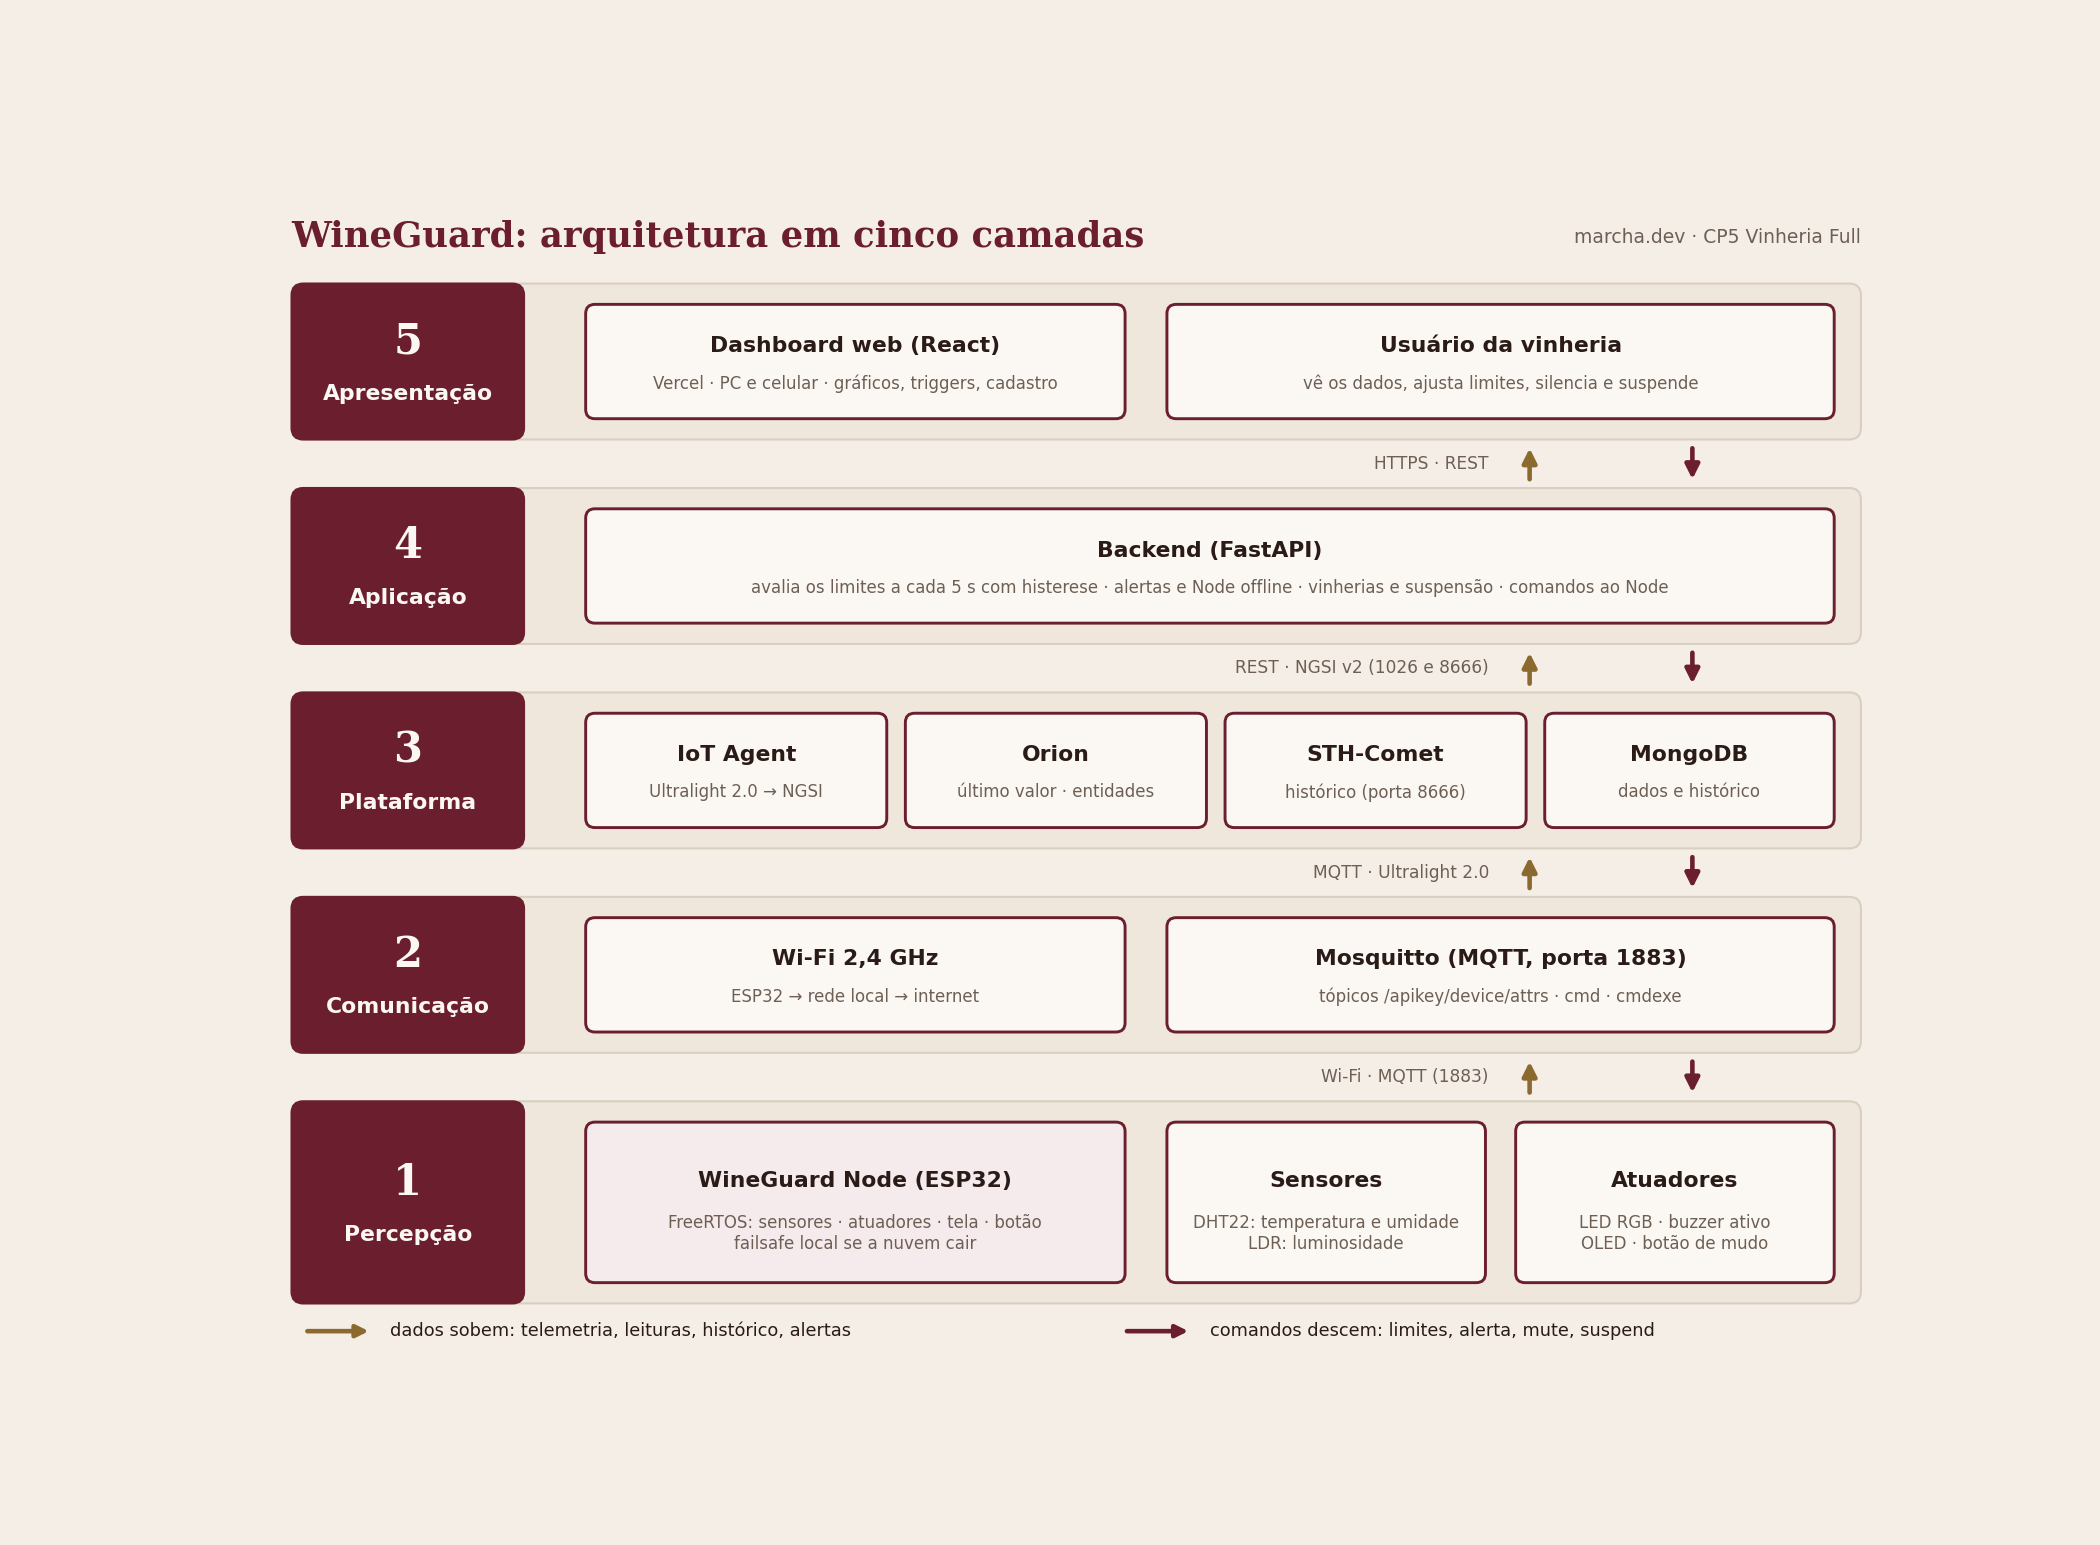
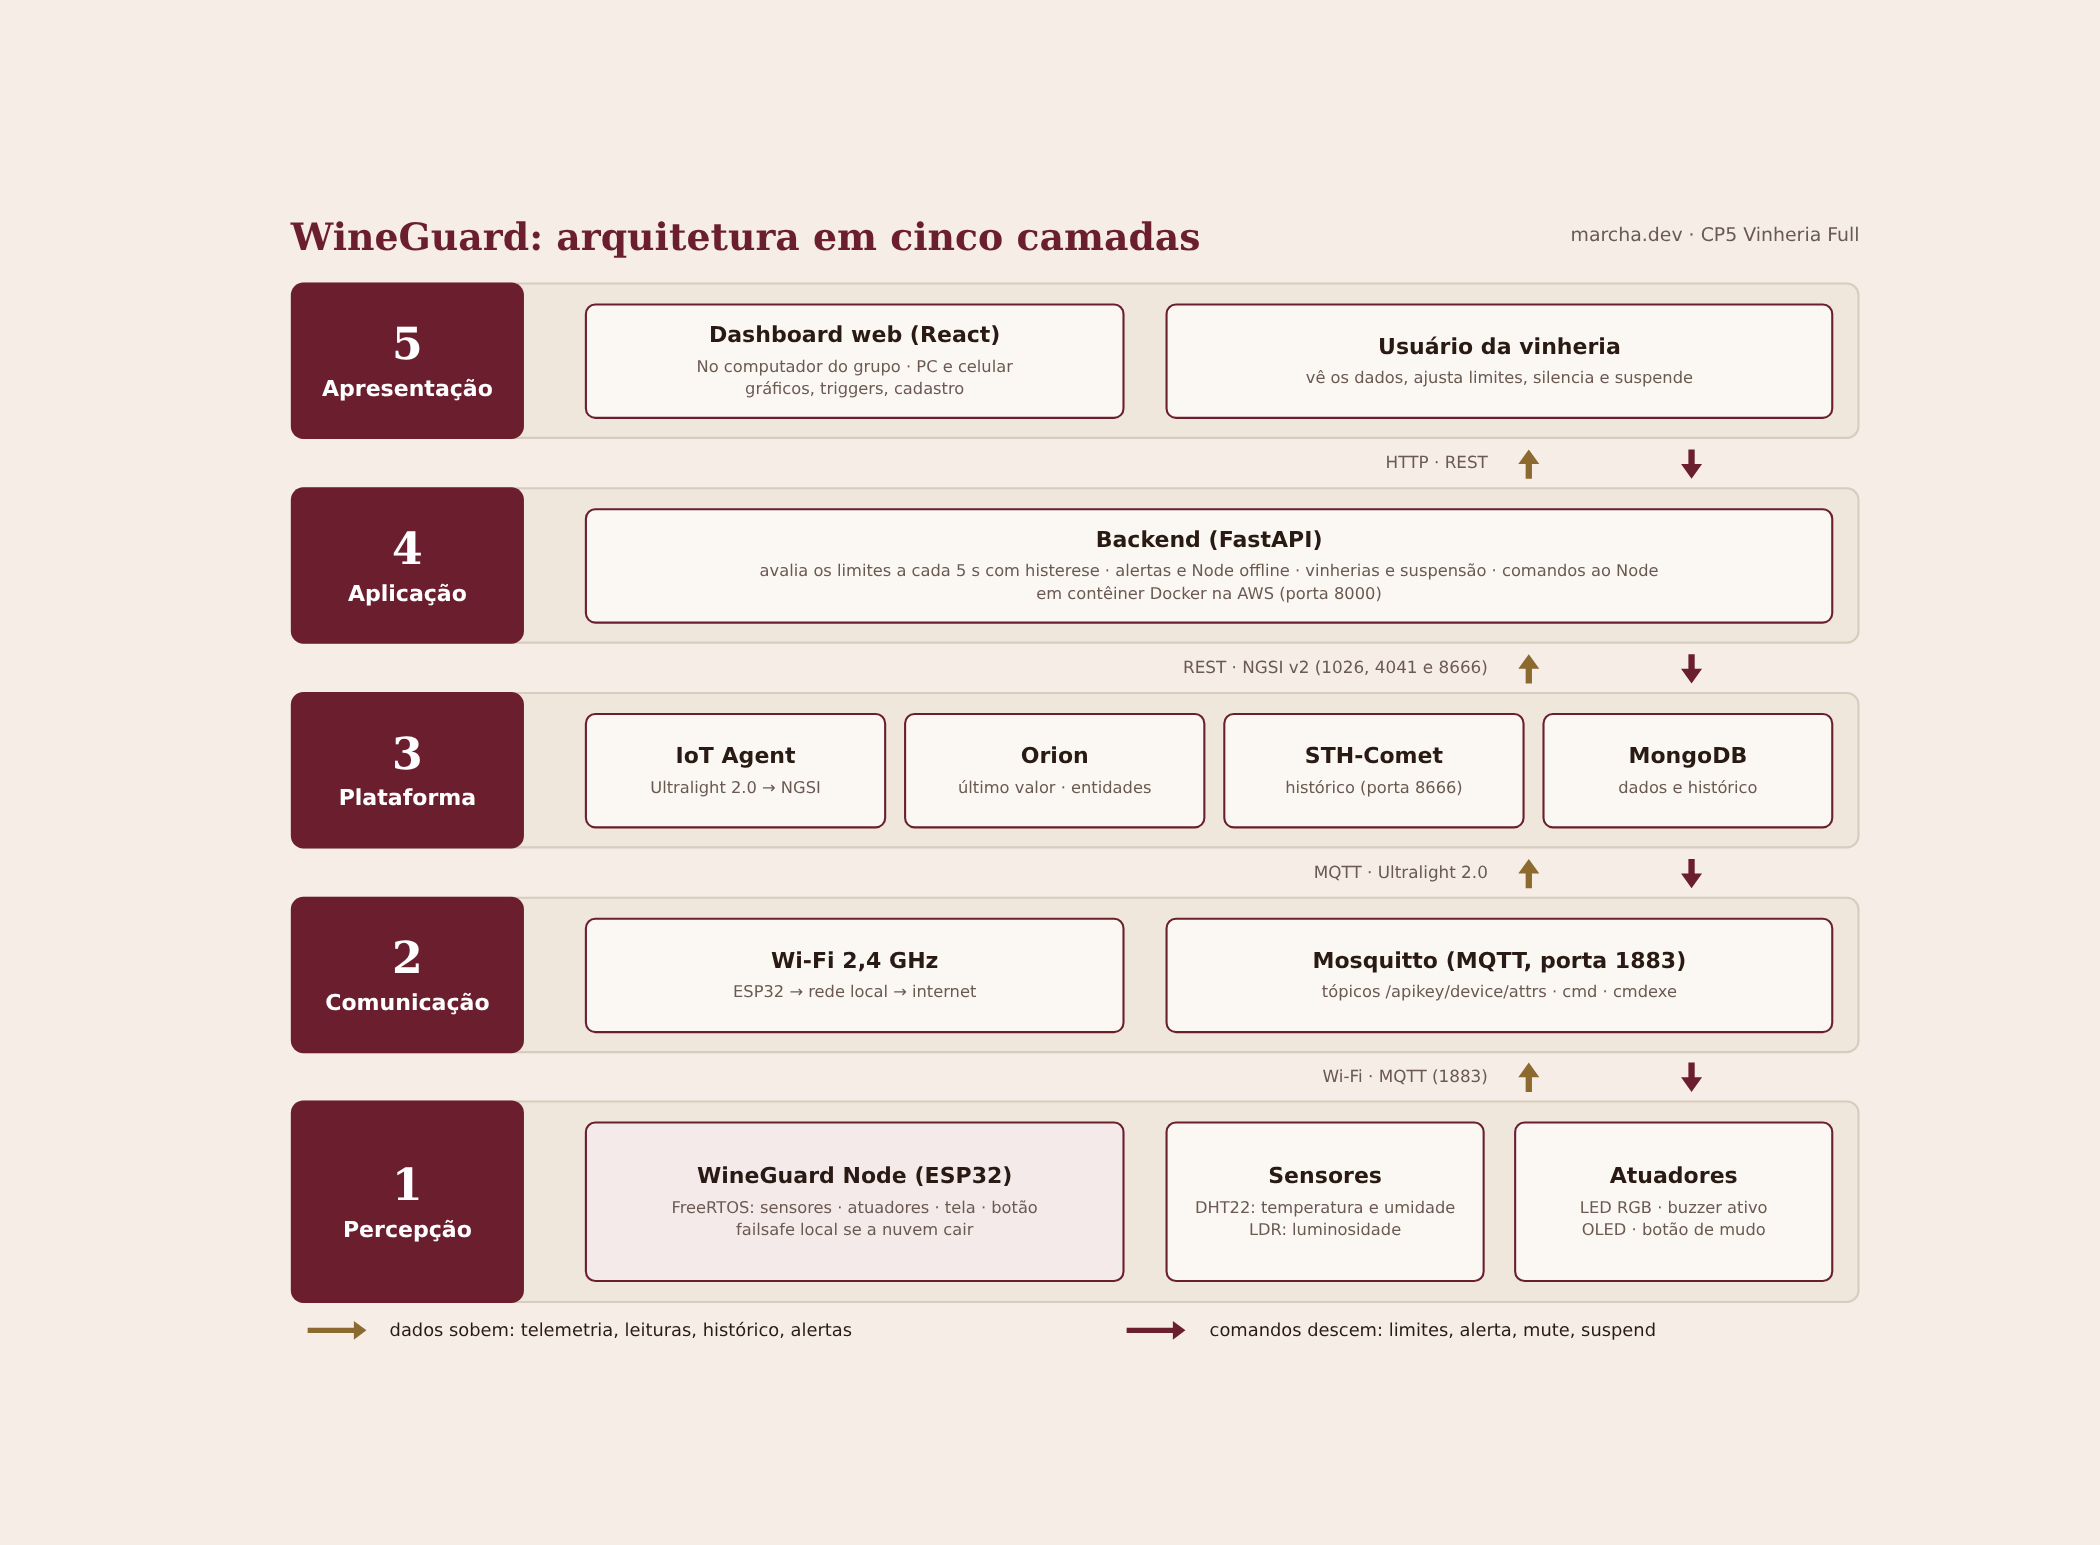
docs: diagrama de arquitetura atualizado (sem Vercel e HTTPS)

diff --git a/README.md b/README.md
@@ -85,8 +85,6 @@ com confirmação do Node, "Identificar Node", queda e retorno da conexão e sus
 
 Os dados **sobem** (telemetria, histórico, alertas) e os comandos **descem** (limites, alerta, mute, suspend) pelo mesmo caminho.
 
-> O diagrama acima está sendo refeito: a versão publicada ainda cita Vercel e HTTPS. O dashboard **não é publicado** e a API fala em HTTP.
-
 ## Várias vinherias
 
 A plataforma separa os dados de cada cliente com o recurso de *multi-tenancy* do FIWARE:
